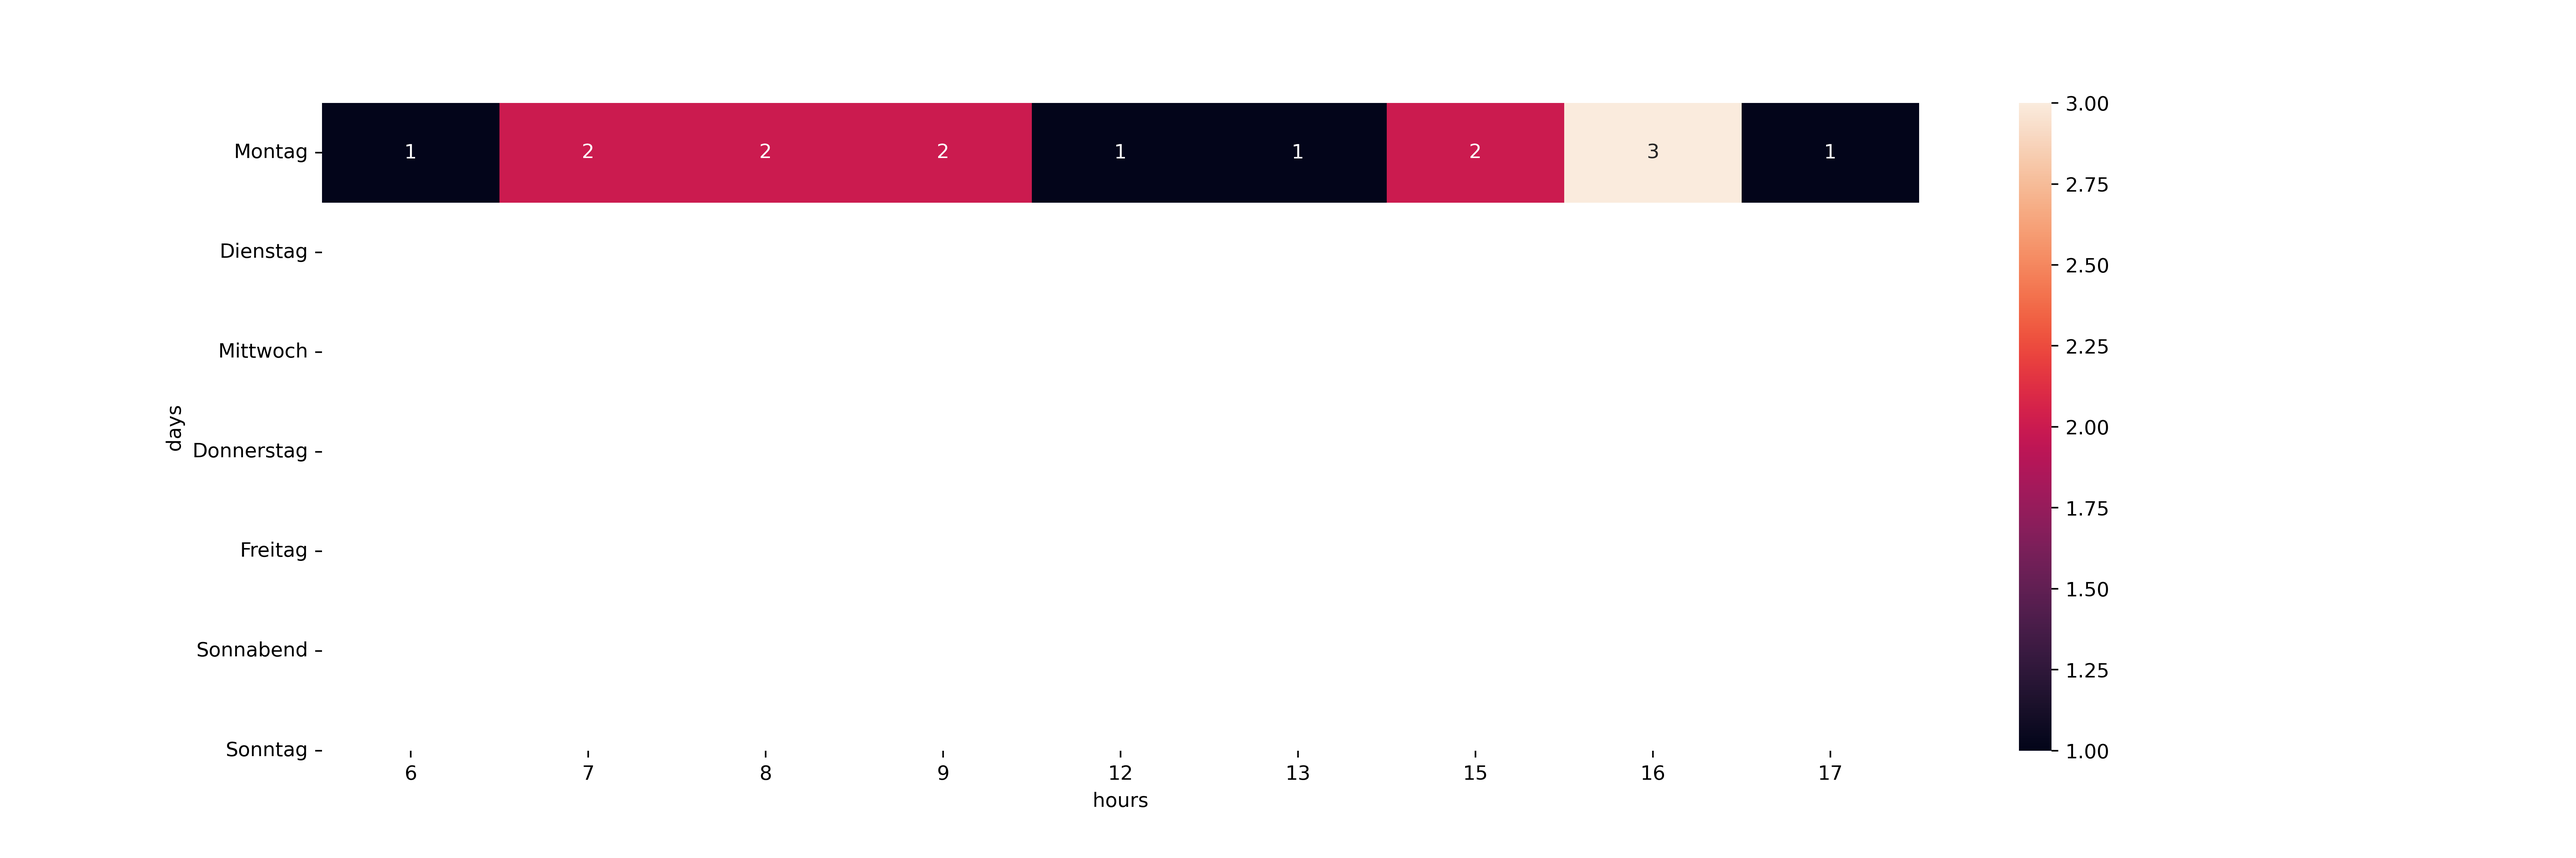
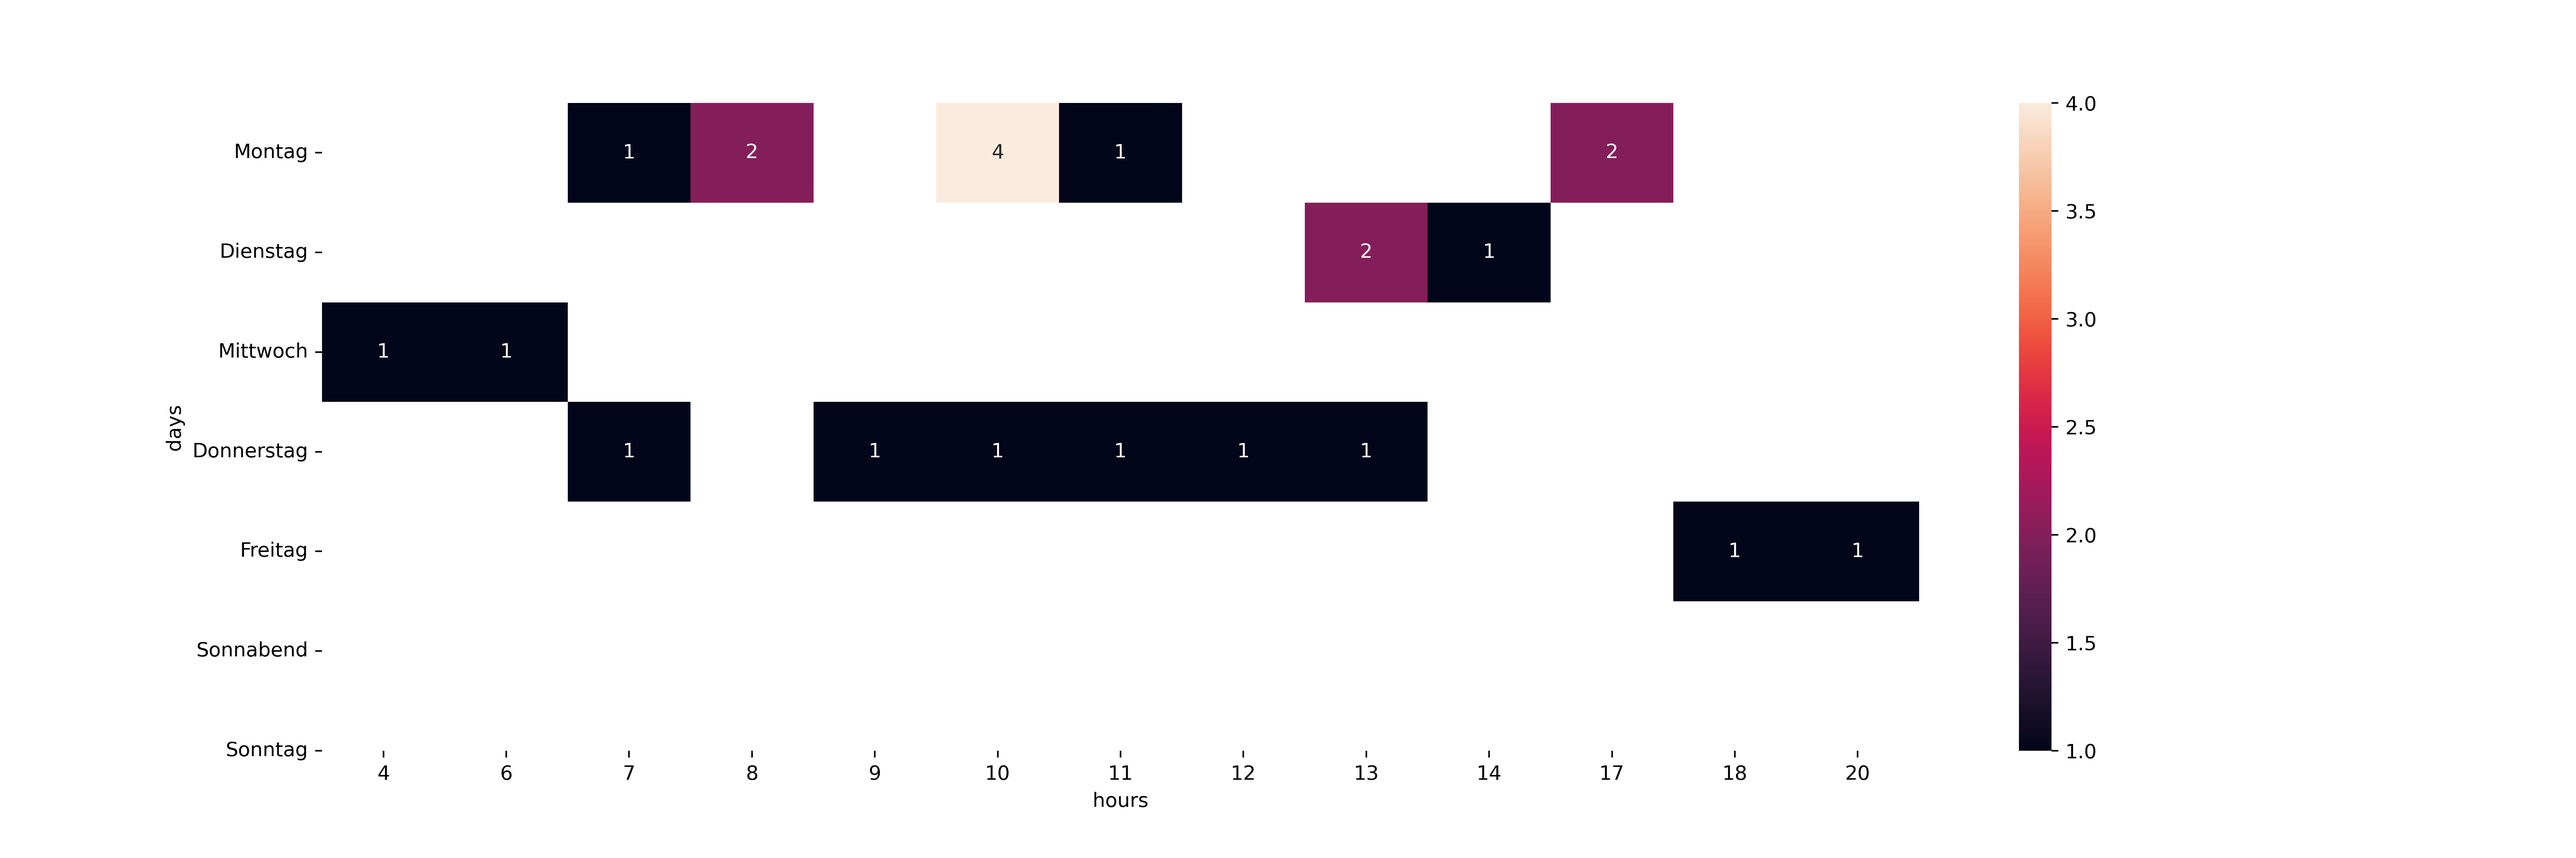
Add new statistics

diff --git a/README.md b/README.md
@@ -14,28 +14,28 @@ language: en
 This is a periodically updated summary of Github Classroom activity report covering the following repositories
 
 <!-- data-type="none" -->
-|    | Team name    | Repository URL                                                                            |
-|---:|:-------------|:------------------------------------------------------------------------------------------|
-|  0 | mytestteam   | [Link](https://api.github.com/repos/GitHubClassroom-Demo/programmingtask_1-mytestteam)    |
-|  1 | teamavengers | [Link](https://api.github.com/repos/GitHubClassroom-Demo/programmingtask_1-team-avengers) |
-|  2 | teamovgu     | [Link](https://api.github.com/repos/GitHubClassroom-Demo/programmingtask_1-team-ovgu)     |
-|  3 | teamtuf      | [Link](https://api.github.com/repos/GitHubClassroom-Demo/programmingtask_1-teamtuf)       |
+|    | Team name            | Repository URL                                                                                                                           |
+|---:|:---------------------|:-----------------------------------------------------------------------------------------------------------------------------------------|
+|  0 | andre_und_sebastian  | [Link](https://api.github.com/repos/Ifi-Softwareentwicklung-SoSe2021/softwareentwicklung_aufgabe3_sose2021_tutors-andre_und_sebastian)   |
+|  1 | andre_und_sebastian1 | [Link](https://api.github.com/repos/Ifi-Softwareentwicklung-SoSe2021/softwareentwicklung_aufgabe3_sose2021_tutors-andre_und_sebastian-1) |
+|  2 | galina_und_jonas     | [Link](https://api.github.com/repos/Ifi-Softwareentwicklung-SoSe2021/softwareentwicklung_aufgabe3_sose2021_tutors-galina_und_jonas)      |
+|  3 | nico_und_baldur      | [Link](https://api.github.com/repos/Ifi-Softwareentwicklung-SoSe2021/softwareentwicklung_aufgabe3_sose2021_tutors-nico_und_baldur)       |
 
 ----------------------------------------------------- 
 
-Last update: 2021-12-15 15:59:16.738822
+Last update: 2022-05-30 17:43:16.512014
 
 ## Activity overview
 
 The individual projects can be characterized by the individual fingerprints summarizing the existence and counts of different Github concepts.
 
 <!-- data-type="none" -->
-|    | Team name    |   Commit count |   Issues |   PullRequests |   Releases |
-|---:|:-------------|---------------:|---------:|---------------:|-----------:|
-|  0 | mytestteam   |              2 |        0 |              0 |          0 |
-|  1 | teamavengers |              8 |        2 |              0 |          0 |
-|  2 | teamovgu     |              1 |        0 |              0 |          0 |
-|  3 | teamtuf      |              4 |        0 |              0 |          0 |
+|    | Team name            |   Commit count |   Issues |   PullRequests |   Releases |
+|---:|:---------------------|---------------:|---------:|---------------:|-----------:|
+|  0 | andre_und_sebastian  |              2 |        1 |              0 |          0 |
+|  1 | andre_und_sebastian1 |              5 |        2 |              1 |          1 |
+|  2 | galina_und_jonas     |              8 |        2 |              1 |          1 |
+|  3 | nico_und_baldur      |              8 |        2 |              1 |          1 |
 
 ## Working time analysis
 
